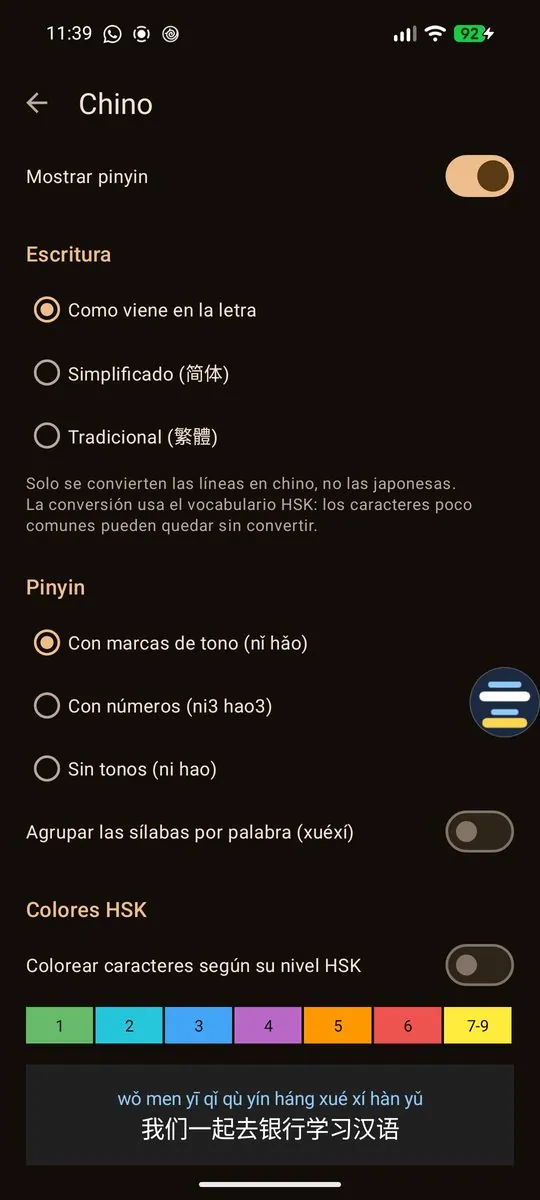
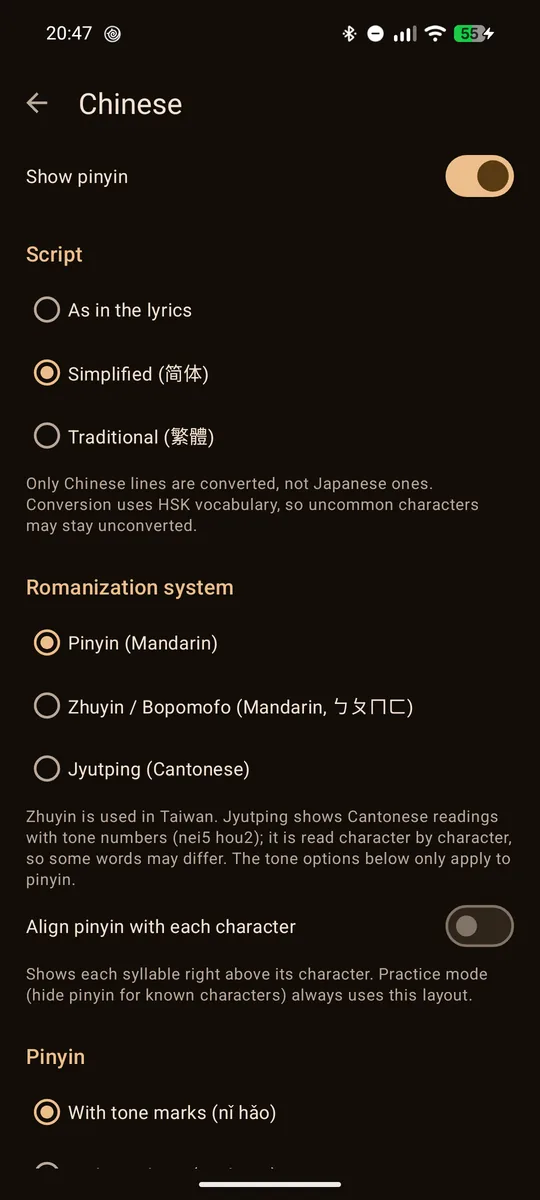
Landing: screenshot carousel with captions and new English screenshots; README.es.md uses the English-UI images

diff --git a/docs/ca/index.html b/docs/ca/index.html
@@ -31,6 +31,7 @@
 <script type="application/ld+json">{"@context": "https://schema.org", "@type": "WebSite", "name": "PinyinLyrics", "alternateName": ["Pinyin Lyrics"], "url": "https://pinyin-lyrics.dawei.es/"}</script>
 <script type="application/ld+json">{"@context": "https://schema.org", "@type": "SoftwareApplication", "name": "PinyinLyrics", "operatingSystem": "Android 8.0+", "applicationCategory": "EducationalApplication", "description": "App gratuïta d'Android amb lletres amb pinyin en una finestra flotant sobre la teva app de música. També romaji i romanització coreana. Sense anuncis.", "url": "https://pinyin-lyrics.dawei.es/ca/", "image": "https://pinyin-lyrics.dawei.es/assets/og-ca.jpg", "inLanguage": "ca", "offers": {"@type": "Offer", "price": "0", "priceCurrency": "EUR"}}</script>
 <script type="application/ld+json">{"@context": "https://schema.org", "@type": "FAQPage", "mainEntity": [{"@type": "Question", "name": "PinyinLyrics és gratuïta?", "acceptedAnswer": {"@type": "Answer", "text": "Sí. És gratuïta, sense anuncis, sense comptes i sense analítiques."}}, {"@type": "Question", "name": "Amb quines apps de música funciona?", "acceptedAnswer": {"@type": "Answer", "text": "Llegeix la cançó que sona des dels controls multimèdia que mostra Android, així que funciona amb la majoria d'apps de música i vídeo que publiquen títol i artista. Spotify, YouTube Music i Metrolist en són exemples habituals."}}, {"@type": "Question", "name": "Funciona amb la versió gratuïta de Spotify?", "acceptedAnswer": {"@type": "Answer", "text": "Sí. Detecta els anuncis i no en busca la lletra, així que mai intenta saltar-los ni esquivar-los. La lletra torna quan torna la cançó."}}, {"@type": "Question", "name": "Per què demana accés a les notificacions?", "acceptedAnswer": {"@type": "Answer", "text": "Android comparteix la informació del contingut que es reprodueix mitjançant el permís d'escolta de notificacions. PinyinLyrics l'utilitza només per saber el títol, l'artista i la posició de la cançó. No llegeix ni desa el contingut de les teves notificacions ni dels teus missatges."}}, {"@type": "Question", "name": "Per què no troba la lletra d'algunes cançons?", "acceptedAnswer": {"@type": "Answer", "text": "Les lletres sincronitzades vénen de LRCLIB, un servei obert de la comunitat, i si no en té cap l'app prova amb lyrics.ovh per obtenir text sense sincronitzar. No totes les cançons hi són. Pots cercar per títol o artista, triar una altra versió o enganxar la teva pròpia lletra, i l'app recorda la teva elecció per a aquesta cançó."}}, {"@type": "Question", "name": "Funciona sense connexió?", "acceptedAnswer": {"@type": "Answer", "text": "El pinyin, el romaji i la romanització es generen al teu mòbil. Les lletres necessiten connexió per descarregar-se, però les cançons que desis com a preferides s'obren sense."}}, {"@type": "Question", "name": "Puc consultar una paraula de la lletra?", "acceptedAnswer": {"@type": "Answer", "text": "Sí. Toca un caràcter xinès de la lletra i s'obre la seva fitxa: pinyin, significat de CC-CEDICT, nivell HSK i desglossament caràcter a caràcter. Pots copiar-la o obrir la teva app de diccionari."}}, {"@type": "Question", "name": "Hi ha versió per a iPhone?", "acceptedAnswer": {"@type": "Answer", "text": "De moment no. PinyinLyrics és per a Android 8.0 o superior."}}, {"@type": "Question", "name": "Quins idiomes admet?", "acceptedAnswer": {"@type": "Answer", "text": "Mostra pinyin per al xinès (simplificat i tradicional), romaji per al japonès i romanització revisada per al coreà. L'app està disponible en 11 idiomes."}}]}</script>
+<script src="../assets/showcase.js" defer></script>
 </head>
 <body>
 <header class="hero">
@@ -52,7 +53,7 @@
     <p class="cta"><a class="btn" href="https://github.com/DaWy/pinyin-lyrics/releases/latest/download/PinyinLyrics.apk" rel="nofollow">⬇ Descarregar l&#x27;APK</a> <a class="btn ghost" href="https://groups.google.com/g/pinyinlyrics-testing">Unir-me al grup de testers</a> <a class="btn ghost" href="https://github.com/DaWy/pinyin-lyrics">Veure a GitHub</a></p>
     <p class="dlnote">Última versió · Android 8.0+ · gratis · <a href="https://github.com/DaWy/pinyin-lyrics/releases/latest">Releases</a></p>
   </div>
-  <div class="shots"><div class="phone"><img src="../screenshots/home.webp" alt="Pantalla principal amb la targeta Ara sona, la barra de cerca i les pestanyes Recents i Preferides" width="540" height="1200"></div><div class="phone"><img src="../screenshots/floating.webp" alt="Finestra flotant amb la lletra i pinyin sobre un reproductor de música" width="540" height="1200" loading="lazy"></div><div class="phone"><img src="../screenshots/fullscreen.webp" alt="Lletra a pantalla completa amb pinyin, la línia actual ressaltada i controls del reproductor" width="540" height="1200" loading="lazy"></div><div class="phone"><img src="../screenshots/wordcard.webp" alt="Fitxa de la paraula 对不起 amb pinyin, significat, nivell HSK 1 i desglossament per caràcters" width="540" height="1200" loading="lazy"></div><div class="phone"><img src="../screenshots/mini.webp" alt="Mode mini amb la línia actual sobre el reproductor" width="540" height="1200" loading="lazy"></div><div class="phone"><img src="../screenshots/settings.webp" alt="Ajustos de xinès amb colors HSK" width="540" height="1200" loading="lazy"></div></div>
+  <section class="showcase" role="region" aria-roledescription="carousel" aria-label="Captures" data-prev="Pantalla anterior" data-next="Pantalla següent" data-go="Ves a la pantalla {n}: {name}"><div class="stage" tabindex="0"><div class="slide" role="group" aria-roledescription="slide" aria-label="1 / 8" data-t="Lletra a pantalla completa" data-s="Sincronitzada, amb pinyin sobre cada línia"><div class="phone"><img src="../screenshots/fullscreen.webp" alt="Lletra a pantalla completa de 姊姊妹妹站起來 de 陳奕 amb pinyin sobre cada línia, la línia actual ressaltada i controls del reproductor" width="540" height="1200" decoding="async"></div></div><div class="slide" role="group" aria-roledescription="slide" aria-label="2 / 8" data-t="Finestra flotant" data-s="Sobre qualsevol app de música"><div class="phone"><img src="../screenshots/floating.webp" alt="Finestra flotant amb la lletra i pinyin sobre el reproductor Metrolist" width="540" height="1200" decoding="async"></div></div><div class="slide" role="group" aria-roledescription="slide" aria-label="3 / 8" data-t="Fitxa de paraula" data-s="Toca un caràcter: significat i nivell HSK"><div class="phone"><img src="../screenshots/wordcard.webp" alt="Fitxa de la paraula 勇敢 (yǒng gǎn) amb el significat &quot;valent&quot;, nivell HSK 4 i desglossament per caràcters" width="540" height="1200" decoding="async"></div></div><div class="slide" role="group" aria-roledescription="slide" aria-label="4 / 8" data-t="Japonès" data-s="Romaji o hiragana"><div class="phone"><img src="../screenshots/japanese.webp" alt="Lletra en japonès de すずめ de RADWIMPS amb romaji sobre cada línia" width="540" height="1200" loading="lazy" decoding="async"></div></div><div class="slide" role="group" aria-roledescription="slide" aria-label="5 / 8" data-t="Coreà" data-s="Romanització revisada"><div class="phone"><img src="../screenshots/korean.webp" alt="Lletra en coreà de LA DI DA d&#x27;EVERGLOW amb la romanització sobre cada línia" width="540" height="1200" loading="lazy" decoding="async"></div></div><div class="slide" role="group" aria-roledescription="slide" aria-label="6 / 8" data-t="Mode mini" data-s="Només la línia actual"><div class="phone"><img src="../screenshots/mini.webp" alt="Mode mini amb només la línia actual i el seu pinyin sobre el reproductor" width="540" height="1200" loading="lazy" decoding="async"></div></div><div class="slide" role="group" aria-roledescription="slide" aria-label="7 / 8" data-t="Inici" data-s="El que sona, recents i preferides"><div class="phone"><img src="../screenshots/home.webp" alt="Pantalla principal amb la targeta Ara sona, la barra de cerca i les pestanyes Recents i Preferides" width="540" height="1200" loading="lazy" decoding="async"></div></div><div class="slide" role="group" aria-roledescription="slide" aria-label="8 / 8" data-t="A la teva manera" data-s="Simplificat o tradicional; pinyin, zhuyin o jyutping"><div class="phone"><img src="../screenshots/settings.webp" alt="Ajustos de xinès per triar escriptura simplificada o tradicional i el sistema de romanització: pinyin, zhuyin o jyutping" width="540" height="1200" loading="lazy" decoding="async"></div></div></div></section>
 </header>
 
 <main class="wrap">

diff --git a/docs/es/index.html b/docs/es/index.html
@@ -31,6 +31,7 @@
 <script type="application/ld+json">{"@context": "https://schema.org", "@type": "WebSite", "name": "PinyinLyrics", "alternateName": ["Pinyin Lyrics"], "url": "https://pinyin-lyrics.dawei.es/"}</script>
 <script type="application/ld+json">{"@context": "https://schema.org", "@type": "SoftwareApplication", "name": "PinyinLyrics", "operatingSystem": "Android 8.0+", "applicationCategory": "EducationalApplication", "description": "App gratuita de Android con letras con pinyin en una ventana flotante sobre tu app de música. También romaji y romanización coreana. Sin anuncios.", "url": "https://pinyin-lyrics.dawei.es/es/", "image": "https://pinyin-lyrics.dawei.es/assets/og-es.jpg", "inLanguage": "es", "offers": {"@type": "Offer", "price": "0", "priceCurrency": "EUR"}}</script>
 <script type="application/ld+json">{"@context": "https://schema.org", "@type": "FAQPage", "mainEntity": [{"@type": "Question", "name": "¿PinyinLyrics es gratis?", "acceptedAnswer": {"@type": "Answer", "text": "Sí. Es gratuita, sin anuncios, sin cuentas y sin analíticas."}}, {"@type": "Question", "name": "¿Con qué apps de música funciona?", "acceptedAnswer": {"@type": "Answer", "text": "Lee la canción que suena desde los controles multimedia que muestra Android, así que funciona con la mayoría de apps de música y vídeo que publican título y artista. Spotify, YouTube Music y Metrolist son ejemplos habituales."}}, {"@type": "Question", "name": "¿Funciona con la versión gratuita de Spotify?", "acceptedAnswer": {"@type": "Answer", "text": "Sí. Detecta los anuncios y no busca letra para ellos, así que nunca intenta saltarlos ni esquivarlos. La letra vuelve cuando vuelve la canción."}}, {"@type": "Question", "name": "¿Por qué pide acceso a notificaciones?", "acceptedAnswer": {"@type": "Answer", "text": "Android comparte la información del contenido que se reproduce a través del permiso de escucha de notificaciones. PinyinLyrics lo usa solo para saber el título, el artista y la posición de la canción. No lee ni guarda el contenido de tus notificaciones ni de tus mensajes."}}, {"@type": "Question", "name": "¿Por qué no encuentra la letra de algunas canciones?", "acceptedAnswer": {"@type": "Answer", "text": "Las letras sincronizadas vienen de LRCLIB, un servicio abierto de la comunidad, y si no tiene ninguna la app prueba con lyrics.ovh para obtener texto sin sincronizar. No todas las canciones están disponibles. Puedes buscar por título o artista, elegir otra versión o pegar tu propia letra, y la app recuerda tu elección para esa canción."}}, {"@type": "Question", "name": "¿Funciona sin conexión?", "acceptedAnswer": {"@type": "Answer", "text": "El pinyin, el romaji y la romanización se generan en tu móvil. Las letras necesitan conexión para descargarse, pero las canciones que guardes como favoritas se abren sin ella."}}, {"@type": "Question", "name": "¿Puedo consultar una palabra de la letra?", "acceptedAnswer": {"@type": "Answer", "text": "Sí. Toca un carácter chino de la letra y se abre su ficha: pinyin, significado de CC-CEDICT, nivel HSK y desglose carácter a carácter. Puedes copiarla o abrir tu app de diccionario."}}, {"@type": "Question", "name": "¿Hay versión para iPhone?", "acceptedAnswer": {"@type": "Answer", "text": "Por ahora no. PinyinLyrics es para Android 8.0 o superior."}}, {"@type": "Question", "name": "¿Qué idiomas admite?", "acceptedAnswer": {"@type": "Answer", "text": "Muestra pinyin para chino (simplificado y tradicional), romaji para japonés y romanización revisada para coreano. La app está disponible en 11 idiomas."}}]}</script>
+<script src="../assets/showcase.js" defer></script>
 </head>
 <body>
 <header class="hero">
@@ -52,7 +53,7 @@
     <p class="cta"><a class="btn" href="https://github.com/DaWy/pinyin-lyrics/releases/latest/download/PinyinLyrics.apk" rel="nofollow">⬇ Descargar el APK</a> <a class="btn ghost" href="https://groups.google.com/g/pinyinlyrics-testing">Unirme al grupo de testers</a> <a class="btn ghost" href="https://github.com/DaWy/pinyin-lyrics">Ver en GitHub</a></p>
     <p class="dlnote">Última versión · Android 8.0+ · gratis · <a href="https://github.com/DaWy/pinyin-lyrics/releases/latest">Releases</a></p>
   </div>
-  <div class="shots"><div class="phone"><img src="../screenshots/home.webp" alt="Pantalla principal con la tarjeta Ahora suena, la barra de búsqueda y las pestañas Recientes y Favoritas" width="540" height="1200"></div><div class="phone"><img src="../screenshots/floating.webp" alt="Ventana flotante con la letra y pinyin sobre un reproductor de música" width="540" height="1200" loading="lazy"></div><div class="phone"><img src="../screenshots/fullscreen.webp" alt="Letra a pantalla completa con pinyin, la línea actual resaltada y controles del reproductor" width="540" height="1200" loading="lazy"></div><div class="phone"><img src="../screenshots/wordcard.webp" alt="Ficha de la palabra 对不起 con pinyin, significado, nivel HSK 1 y desglose por caracteres" width="540" height="1200" loading="lazy"></div><div class="phone"><img src="../screenshots/mini.webp" alt="Modo mini con la línea actual sobre el reproductor" width="540" height="1200" loading="lazy"></div><div class="phone"><img src="../screenshots/settings.webp" alt="Ajustes de chino con colores HSK" width="540" height="1200" loading="lazy"></div></div>
+  <section class="showcase" role="region" aria-roledescription="carousel" aria-label="Capturas" data-prev="Pantalla anterior" data-next="Pantalla siguiente" data-go="Ir a la pantalla {n}: {name}"><div class="stage" tabindex="0"><div class="slide" role="group" aria-roledescription="slide" aria-label="1 / 8" data-t="Letra a pantalla completa" data-s="Sincronizada, con pinyin sobre cada línea"><div class="phone"><img src="../screenshots/fullscreen.webp" alt="Letra a pantalla completa de 姊姊妹妹站起來 de 陳奕 con pinyin sobre cada línea, la línea actual resaltada y controles del reproductor" width="540" height="1200" decoding="async"></div></div><div class="slide" role="group" aria-roledescription="slide" aria-label="2 / 8" data-t="Ventana flotante" data-s="Sobre cualquier app de música"><div class="phone"><img src="../screenshots/floating.webp" alt="Ventana flotante con la letra y pinyin sobre el reproductor Metrolist" width="540" height="1200" decoding="async"></div></div><div class="slide" role="group" aria-roledescription="slide" aria-label="3 / 8" data-t="Ficha de palabra" data-s="Toca un carácter: significado y nivel HSK"><div class="phone"><img src="../screenshots/wordcard.webp" alt="Ficha de la palabra 勇敢 (yǒng gǎn) con el significado &quot;valiente&quot;, nivel HSK 4 y desglose por caracteres" width="540" height="1200" decoding="async"></div></div><div class="slide" role="group" aria-roledescription="slide" aria-label="4 / 8" data-t="Japonés" data-s="Romaji o hiragana"><div class="phone"><img src="../screenshots/japanese.webp" alt="Letra en japonés de すずめ de RADWIMPS con romaji sobre cada línea" width="540" height="1200" loading="lazy" decoding="async"></div></div><div class="slide" role="group" aria-roledescription="slide" aria-label="5 / 8" data-t="Coreano" data-s="Romanización revisada"><div class="phone"><img src="../screenshots/korean.webp" alt="Letra en coreano de LA DI DA de EVERGLOW con la romanización sobre cada línea" width="540" height="1200" loading="lazy" decoding="async"></div></div><div class="slide" role="group" aria-roledescription="slide" aria-label="6 / 8" data-t="Modo mini" data-s="Solo la línea actual"><div class="phone"><img src="../screenshots/mini.webp" alt="Modo mini con solo la línea actual y su pinyin sobre el reproductor" width="540" height="1200" loading="lazy" decoding="async"></div></div><div class="slide" role="group" aria-roledescription="slide" aria-label="7 / 8" data-t="Inicio" data-s="Lo que suena, recientes y favoritas"><div class="phone"><img src="../screenshots/home.webp" alt="Pantalla principal con la tarjeta Ahora suena, la barra de búsqueda y las pestañas Recientes y Favoritas" width="540" height="1200" loading="lazy" decoding="async"></div></div><div class="slide" role="group" aria-roledescription="slide" aria-label="8 / 8" data-t="A tu manera" data-s="Simplificado o tradicional; pinyin, zhuyin o jyutping"><div class="phone"><img src="../screenshots/settings.webp" alt="Ajustes de chino para elegir escritura simplificada o tradicional y el sistema de romanización: pinyin, zhuyin o jyutping" width="540" height="1200" loading="lazy" decoding="async"></div></div></div></section>
 </header>
 
 <main class="wrap">

diff --git a/docs/index.html b/docs/index.html
@@ -31,6 +31,7 @@
 <script type="application/ld+json">{"@context": "https://schema.org", "@type": "WebSite", "name": "PinyinLyrics", "alternateName": ["Pinyin Lyrics"], "url": "https://pinyin-lyrics.dawei.es/"}</script>
 <script type="application/ld+json">{"@context": "https://schema.org", "@type": "SoftwareApplication", "name": "PinyinLyrics", "operatingSystem": "Android 8.0+", "applicationCategory": "EducationalApplication", "description": "Free Android app that shows song lyrics with pinyin in a floating window over your music app. Also romaji and Korean romanization. HSK colours. No ads.", "url": "https://pinyin-lyrics.dawei.es/", "image": "https://pinyin-lyrics.dawei.es/assets/og-en.jpg", "inLanguage": "en", "offers": {"@type": "Offer", "price": "0", "priceCurrency": "EUR"}}</script>
 <script type="application/ld+json">{"@context": "https://schema.org", "@type": "FAQPage", "mainEntity": [{"@type": "Question", "name": "Is PinyinLyrics free?", "acceptedAnswer": {"@type": "Answer", "text": "Yes. It's free, with no ads, no accounts and no analytics."}}, {"@type": "Question", "name": "Which music apps does it work with?", "acceptedAnswer": {"@type": "Answer", "text": "It reads the song that's playing from the media controls Android shows, so it works with most music and video apps that publish the title and artist. Spotify, YouTube Music and Metrolist are common examples."}}, {"@type": "Question", "name": "Does it work with the free version of Spotify?", "acceptedAnswer": {"@type": "Answer", "text": "Yes. It detects the ads and doesn't look up lyrics for them, so it never tries to skip or get around them. The lyrics come back when the song does."}}, {"@type": "Question", "name": "Why does it ask for notification access?", "acceptedAnswer": {"@type": "Answer", "text": "Android shares the currently playing media information through the notification listener permission. PinyinLyrics uses it only to know the title, artist and position of the song. It doesn't read or store the content of your notifications or messages."}}, {"@type": "Question", "name": "Why can't it find the lyrics for some songs?", "acceptedAnswer": {"@type": "Answer", "text": "Synced lyrics come from LRCLIB, an open community service, and when it has none the app tries lyrics.ovh for unsynced text. Not every song is available. You can search by title or artist, pick another version or paste your own lyrics, and the app remembers your choice for that song."}}, {"@type": "Question", "name": "Does it work offline?", "acceptedAnswer": {"@type": "Answer", "text": "Pinyin, romaji and romanization are generated on your phone. Lyrics need an internet connection to download, but songs you save as favourites can be opened without one."}}, {"@type": "Question", "name": "Can I look up a word from the lyrics?", "acceptedAnswer": {"@type": "Answer", "text": "Yes. Tap a Chinese character in the lyrics to open its word card: pinyin, meaning from CC-CEDICT, HSK level and a character-by-character breakdown. You can copy it or open your dictionary app."}}, {"@type": "Question", "name": "Is there an iPhone version?", "acceptedAnswer": {"@type": "Answer", "text": "Not for now. PinyinLyrics is for Android 8.0 and newer."}}, {"@type": "Question", "name": "Which languages does it support?", "acceptedAnswer": {"@type": "Answer", "text": "It shows pinyin for Chinese (simplified and traditional), romaji for Japanese and Revised Romanization for Korean. The app itself is available in 11 languages."}}]}</script>
+<script src="assets/showcase.js" defer></script>
 </head>
 <body>
 <header class="hero">
@@ -52,7 +53,7 @@
     <p class="cta"><a class="btn" href="https://github.com/DaWy/pinyin-lyrics/releases/latest/download/PinyinLyrics.apk" rel="nofollow">⬇ Download the APK</a> <a class="btn ghost" href="https://groups.google.com/g/pinyinlyrics-testing">Join the testers group</a> <a class="btn ghost" href="https://github.com/DaWy/pinyin-lyrics">View on GitHub</a></p>
     <p class="dlnote">Latest version · Android 8.0+ · free · <a href="https://github.com/DaWy/pinyin-lyrics/releases/latest">Releases</a></p>
   </div>
-  <div class="shots"><div class="phone"><img src="screenshots/home.webp" alt="Home screen with the Now playing card, search bar and Recents and Favourites tabs" width="540" height="1200"></div><div class="phone"><img src="screenshots/floating.webp" alt="Floating lyrics window with pinyin over a music player" width="540" height="1200" loading="lazy"></div><div class="phone"><img src="screenshots/fullscreen.webp" alt="Full-screen lyrics with pinyin, the current line highlighted and player controls" width="540" height="1200" loading="lazy"></div><div class="phone"><img src="screenshots/wordcard.webp" alt="Word card for 对不起 with pinyin, meaning, HSK 1 level and character breakdown" width="540" height="1200" loading="lazy"></div><div class="phone"><img src="screenshots/mini.webp" alt="Mini mode with the current line over the player" width="540" height="1200" loading="lazy"></div><div class="phone"><img src="screenshots/settings.webp" alt="Chinese settings with HSK colours" width="540" height="1200" loading="lazy"></div></div>
+  <section class="showcase" role="region" aria-roledescription="carousel" aria-label="Screenshots" data-prev="Previous screen" data-next="Next screen" data-go="Go to screen {n}: {name}"><div class="stage" tabindex="0"><div class="slide" role="group" aria-roledescription="slide" aria-label="1 / 8" data-t="Full-screen lyrics" data-s="Synced, with pinyin above every line"><div class="phone"><img src="screenshots/fullscreen.webp" alt="Full-screen lyrics for 姊姊妹妹站起來 by 陳奕 with pinyin above each line, the current line highlighted and player controls" width="540" height="1200" decoding="async"></div></div><div class="slide" role="group" aria-roledescription="slide" aria-label="2 / 8" data-t="Floating window" data-s="Over any music app"><div class="phone"><img src="screenshots/floating.webp" alt="Floating lyrics window with pinyin over the Metrolist music player" width="540" height="1200" decoding="async"></div></div><div class="slide" role="group" aria-roledescription="slide" aria-label="3 / 8" data-t="Word cards" data-s="Tap a character for its meaning and HSK level"><div class="phone"><img src="screenshots/wordcard.webp" alt="Word card for 勇敢 (yǒng gǎn) with the meaning &quot;brave; courageous&quot;, HSK 4 level and a character-by-character breakdown" width="540" height="1200" decoding="async"></div></div><div class="slide" role="group" aria-roledescription="slide" aria-label="4 / 8" data-t="Japanese" data-s="Romaji or hiragana"><div class="phone"><img src="screenshots/japanese.webp" alt="Japanese lyrics of すずめ by RADWIMPS with romaji above each line" width="540" height="1200" loading="lazy" decoding="async"></div></div><div class="slide" role="group" aria-roledescription="slide" aria-label="5 / 8" data-t="Korean" data-s="Revised Romanization"><div class="phone"><img src="screenshots/korean.webp" alt="Korean lyrics of LA DI DA by EVERGLOW with the romanization above each line" width="540" height="1200" loading="lazy" decoding="async"></div></div><div class="slide" role="group" aria-roledescription="slide" aria-label="6 / 8" data-t="Mini mode" data-s="Just the current line"><div class="phone"><img src="screenshots/mini.webp" alt="Mini mode showing only the current line with pinyin over the music player" width="540" height="1200" loading="lazy" decoding="async"></div></div><div class="slide" role="group" aria-roledescription="slide" aria-label="7 / 8" data-t="Home" data-s="What&#x27;s playing, recents and favourites"><div class="phone"><img src="screenshots/home.webp" alt="Home screen with the Now playing card, search bar and Recent and Favourites tabs" width="540" height="1200" loading="lazy" decoding="async"></div></div><div class="slide" role="group" aria-roledescription="slide" aria-label="8 / 8" data-t="Your way" data-s="Simplified or traditional; pinyin, zhuyin or jyutping"><div class="phone"><img src="screenshots/settings.webp" alt="Chinese settings to choose simplified or traditional script and the pinyin, zhuyin or jyutping romanization system" width="540" height="1200" loading="lazy" decoding="async"></div></div></div></section>
 </header>
 
 <main class="wrap">

diff --git a/docs/assets/style.css b/docs/assets/style.css
@@ -31,9 +31,45 @@ h1{font-size:clamp(2.3rem,7vw,3.6rem);font-weight:700;margin:6px 0 8px;letter-sp
 .dlnote a{color:var(--muted)}
 .btn.ghost{background:transparent;color:var(--accent);border:1px solid var(--outline)}
 .btn.ghost:hover{background:var(--surface2);color:var(--accent);border-color:var(--accent-strong)}
-.shots{display:flex;gap:20px;justify-content:center;justify-content:safe center;align-items:flex-start;padding:44px 20px 16px;overflow-x:auto;scroll-snap-type:x mandatory;scroll-padding:0 20px;-webkit-overflow-scrolling:touch}
-.phone{flex:0 0 auto;width:min(210px,62vw);scroll-snap-align:center;border-radius:28px;padding:5px;background:var(--surface);border:1px solid var(--outline);box-shadow:0 18px 40px #000a}
-.phone img{display:block;width:100%;border-radius:23px}
+.showcase{--pw:260px;--ph:calc((var(--pw) - 12px)*2.2222 + 12px)}
+.stage{display:flex;gap:20px;justify-content:center;justify-content:safe center;align-items:flex-start;padding:44px 20px 16px;overflow-x:auto;scroll-snap-type:x mandatory;scroll-padding:0 20px;-webkit-overflow-scrolling:touch}
+.slide{flex:0 0 auto;width:min(210px,62vw);scroll-snap-align:center}
+.phone{border-radius:28px;padding:5px;background:var(--surface);border:1px solid var(--outline);box-shadow:0 18px 40px #000a}
+.phone img{display:block;width:100%;border-radius:23px;-webkit-user-drag:none;user-select:none}
+.sc-ui{display:none}
+.is-js{--pw:min(260px,66vw);--dx:calc(var(--pw)*.76)}
+.is-js .stage{display:block;position:relative;overflow:hidden;height:calc(var(--ph) + 64px);padding:0;perspective:1500px;scroll-snap-type:none;touch-action:pan-y;user-select:none;-webkit-user-select:none;outline-offset:-3px}
+.is-js .stage::before{content:"";position:absolute;left:50%;top:50%;width:min(720px,110%);height:72%;transform:translate(-50%,-50%);background:radial-gradient(closest-side,#f2c08c4d,#d85a301f 55%,transparent);filter:blur(34px);pointer-events:none}
+.is-js .slide{position:absolute;left:50%;top:32px;width:var(--pw);margin-left:calc(var(--pw)/-2);cursor:pointer;opacity:0;visibility:hidden;pointer-events:none;transform:scale(.5);transition:transform .6s cubic-bezier(.2,.7,.2,1),opacity .6s cubic-bezier(.2,.7,.2,1),filter .6s cubic-bezier(.2,.7,.2,1),visibility 0s .6s}
+.is-js .slide[data-pos]{visibility:visible;pointer-events:auto;transition-delay:0s}
+.is-js .slide[data-pos="0"]{opacity:1;z-index:3;cursor:default;transform:none}
+.is-js .slide[data-pos="1"],.is-js .slide[data-pos="-1"]{opacity:.5;z-index:2;filter:blur(1.5px) brightness(.72)}
+.is-js .slide[data-pos="1"]{transform:translateX(var(--dx)) scale(.8) rotateY(-18deg)}
+.is-js .slide[data-pos="-1"]{transform:translateX(calc(var(--dx)*-1)) scale(.8) rotateY(18deg)}
+.is-js .slide[data-pos="2"],.is-js .slide[data-pos="-2"]{opacity:.18;z-index:1;filter:blur(2.5px) brightness(.6)}
+.is-js .slide[data-pos="2"]{transform:translateX(calc(var(--dx)*1.62)) scale(.62) rotateY(-24deg)}
+.is-js .slide[data-pos="-2"]{transform:translateX(calc(var(--dx)*-1.62)) scale(.62) rotateY(24deg)}
+.is-js .phone{box-shadow:0 22px 50px #000c,0 0 0 1px #0006}
+.sc-ui{display:block;text-align:center;padding:0 20px}
+.sc-cap{min-height:3.7em;margin:6px auto 0;max-width:520px}
+.sc-cap b{display:block;font-size:1.1rem;letter-spacing:-.01em;color:var(--text)}
+.sc-cap span{display:block;color:var(--muted);font-size:.95rem}
+.sc-cap.in{animation:scfade .5s cubic-bezier(.2,.7,.2,1)}
+@keyframes scfade{from{opacity:0;transform:translateY(6px)}to{opacity:1;transform:none}}
+.sc-nav{display:flex;justify-content:center;align-items:center;gap:10px;margin-top:6px}
+.sc-arrow{display:flex;align-items:center;justify-content:center;width:40px;height:40px;padding:0;border-radius:50%;border:1px solid var(--outline);background:var(--surface);color:var(--accent);cursor:pointer;transition:background .15s,border-color .15s}
+.sc-arrow:hover{background:var(--surface2);border-color:var(--accent-strong)}
+.sc-dots{display:flex;align-items:center}
+.sc-dot{padding:14px 3px;border:0;background:none;cursor:pointer}
+.sc-dot i{display:block;position:relative;width:8px;height:8px;border-radius:999px;background:var(--outline);overflow:hidden;transition:width .45s cubic-bezier(.2,.7,.2,1),background .3s}
+.sc-dot:hover i{background:var(--muted)}
+.sc-dot.on i{width:38px;background:var(--surface2)}
+.sc-dot.on i::after{content:"";position:absolute;inset:0;background:var(--accent);transform:scaleX(0);transform-origin:left}
+.sc-dot.on.run i::after{animation:scfill var(--dur,4s) linear forwards}
+.is-paused .sc-dot.on i::after{animation-play-state:paused}
+@keyframes scfill{to{transform:scaleX(1)}}
+@media (max-width:700px){.is-js{--dx:calc(var(--pw)*.72)}.is-js .slide[data-pos="2"],.is-js .slide[data-pos="-2"]{opacity:0;visibility:hidden}}
+@media (prefers-reduced-motion:reduce){.is-js .slide[data-pos]:not([data-pos="0"]){opacity:0;transform:none;pointer-events:none}.is-js .slide{transition:opacity .3s!important}.sc-dot.on i::after{animation:none!important;transform:scaleX(1)}.sc-cap.in{animation:none}}
 h2.sec{font-size:clamp(1.5rem,4vw,1.9rem);font-weight:700;letter-spacing:-.025em;margin:56px 0 8px}
 .grid{display:grid;grid-template-columns:repeat(auto-fit,minmax(260px,1fr));gap:16px;padding:12px 0}
 .card{background:var(--surface);border:1px solid var(--outline);border-radius:24px;padding:22px}
@@ -68,5 +104,5 @@ footer a{margin:0 10px}
 .cta-box{background:var(--surface);border:1px solid var(--outline);border-radius:24px;padding:22px 26px;margin:36px 0}
 .cta-box h2{margin-top:0}
 :focus-visible{outline:2px solid var(--accent);outline-offset:3px}
-@media (max-width:560px){.top{flex-direction:column;align-items:flex-start}.shots{justify-content:flex-start}}
+@media (max-width:560px){.top{flex-direction:column;align-items:flex-start}.stage{justify-content:flex-start}}
 @media (prefers-reduced-motion:reduce){html{scroll-behavior:auto}*{transition:none!important}}

diff --git a/docs/assets/showcase.js b/docs/assets/showcase.js
@@ -1,0 +1,113 @@
+(function () {
+  var root = document.querySelector('.showcase');
+  if (!root) return;
+  var stage = root.querySelector('.stage');
+  var slides = [].slice.call(root.querySelectorAll('.slide'));
+  var n = slides.length;
+  if (!stage || n < 2) return;
+  var INTERVAL = 4000, cur = 0, timer = null, hover = false, focus = false;
+  var reduce = window.matchMedia ? matchMedia('(prefers-reduced-motion: reduce)') : { matches: false };
+
+  function el(tag, cls, attrs) {
+    var x = document.createElement(tag);
+    if (cls) x.className = cls;
+    for (var k in attrs || {}) x.setAttribute(k, attrs[k]);
+    return x;
+  }
+  var chevron = function (d) {
+    return '<svg width="18" height="18" viewBox="0 0 24 24" fill="none" stroke="currentColor" stroke-width="2.5" stroke-linecap="round" stroke-linejoin="round" aria-hidden="true"><path d="' + d + '"/></svg>';
+  };
+  var ui = el('div', 'sc-ui');
+  var cap = el('div', 'sc-cap', { 'aria-live': 'polite', 'aria-atomic': 'true' });
+  var nav = el('div', 'sc-nav');
+  var prev = el('button', 'sc-arrow', { type: 'button', 'aria-label': root.dataset.prev || 'Previous' });
+  var next = el('button', 'sc-arrow', { type: 'button', 'aria-label': root.dataset.next || 'Next' });
+  prev.innerHTML = chevron('M15 5l-7 7 7 7');
+  next.innerHTML = chevron('M9 5l7 7-7 7');
+  var dotsBox = el('div', 'sc-dots');
+  var dots = slides.map(function (s, i) {
+    var label = (root.dataset.go || '{n}: {name}').replace('{n}', i + 1).replace('{name}', s.dataset.t || '');
+    var d = el('button', 'sc-dot', { type: 'button', 'aria-label': label });
+    d.appendChild(el('i'));
+    d.addEventListener('click', function () { go(i); });
+    dotsBox.appendChild(d);
+    return d;
+  });
+  nav.appendChild(prev); nav.appendChild(dotsBox); nav.appendChild(next);
+  ui.appendChild(cap); ui.appendChild(nav);
+  root.appendChild(ui);
+  root.style.setProperty('--dur', INTERVAL + 'ms');
+
+  function render(animate) {
+    slides.forEach(function (s, i) {
+      var p = ((i - cur + n + Math.floor(n / 2)) % n) - Math.floor(n / 2);
+      if (Math.abs(p) <= 2) s.dataset.pos = p; else s.removeAttribute('data-pos');
+      s.setAttribute('aria-hidden', p === 0 ? 'false' : 'true');
+    });
+    dots.forEach(function (d, i) {
+      d.classList.toggle('on', i === cur);
+      if (i === cur) d.setAttribute('aria-current', 'true'); else d.removeAttribute('aria-current');
+    });
+    cap.innerHTML = '';
+    var b = el('b'), sp = el('span');
+    b.textContent = slides[cur].dataset.t || '';
+    sp.textContent = slides[cur].dataset.s || '';
+    cap.appendChild(b); cap.appendChild(sp);
+    if (animate) { cap.classList.remove('in'); void cap.offsetWidth; cap.classList.add('in'); }
+  }
+  function go(i, auto) {
+    cur = (i + n) % n;
+    render(true);
+    arm();
+  }
+  // (re)arranca el temporizador y la barra de progreso del punto activo
+  function arm() {
+    clearTimeout(timer);
+    dots.forEach(function (d) { d.classList.remove('run'); });
+    if (reduce.matches) return;
+    void root.offsetWidth;
+    dots[cur].classList.add('run');
+    if (!paused()) timer = setTimeout(function () { go(cur + 1); }, INTERVAL);
+  }
+  function paused() { return hover || focus || document.hidden || reduce.matches; }
+  function sync() {
+    root.classList.toggle('is-paused', paused());
+    if (paused()) clearTimeout(timer); else arm();
+  }
+
+  prev.addEventListener('click', function () { go(cur - 1); });
+  next.addEventListener('click', function () { go(cur + 1); });
+  slides.forEach(function (s, i) {
+    s.addEventListener('click', function () { if (!moved && i !== cur) go(i); });
+  });
+  root.addEventListener('keydown', function (ev) {
+    if (ev.key === 'ArrowLeft') { go(cur - 1); ev.preventDefault(); }
+    else if (ev.key === 'ArrowRight') { go(cur + 1); ev.preventDefault(); }
+  });
+
+  // swipe con pointer events
+  var x0 = null, moved = false;
+  stage.addEventListener('pointerdown', function (ev) { x0 = ev.clientX; moved = false; });
+  stage.addEventListener('pointerup', function (ev) {
+    if (x0 === null) return;
+    var dx = ev.clientX - x0; x0 = null;
+    if (Math.abs(dx) > 40) { moved = true; go(dx < 0 ? cur + 1 : cur - 1); setTimeout(function () { moved = false; }, 0); }
+  });
+  stage.addEventListener('pointercancel', function () { x0 = null; });
+
+  // pausa: ratón encima (no táctil), foco de teclado dentro, pestaña oculta
+  root.addEventListener('pointerenter', function (ev) { if (ev.pointerType === 'mouse') { hover = true; sync(); } });
+  root.addEventListener('pointerleave', function () { hover = false; sync(); });
+  root.addEventListener('focusin', function (ev) {
+    try { focus = ev.target.matches(':focus-visible'); } catch (_) { focus = false; }
+    sync();
+  });
+  root.addEventListener('focusout', function () { focus = false; sync(); });
+  document.addEventListener('visibilitychange', sync);
+  if (reduce.addEventListener) reduce.addEventListener('change', sync);
+
+  root.classList.add('is-js');
+  render(false);
+  sync();
+  arm();
+})();

diff --git a/README.es.md b/README.es.md
@@ -27,12 +27,12 @@
 </p>
 
 <p align="center">
-  <img src="screenshots/home.jpg" width="24%" alt="Pantalla principal con la tarjeta Ahora suena, la barra de búsqueda y las pestañas Recientes y Favoritas">
-  <img src="screenshots/floating.jpg" width="24%" alt="Ventana flotante con la letra y pinyin sobre un reproductor de música">
-  <img src="screenshots/fullscreen.jpg" width="24%" alt="Letra a pantalla completa con pinyin y controles del reproductor">
-  <img src="screenshots/wordcard.jpg" width="24%" alt="Ficha de la palabra 对不起 con pinyin, significado, nivel HSK y desglose por caracteres">
+  <img src="screenshots/en/home.jpg" width="24%" alt="Pantalla principal con la tarjeta Ahora suena, la barra de búsqueda y las pestañas Recientes y Favoritas">
+  <img src="screenshots/en/floating.jpg" width="24%" alt="Ventana flotante con la letra y pinyin sobre un reproductor de música">
+  <img src="screenshots/en/fullscreen.jpg" width="24%" alt="Letra a pantalla completa con pinyin y controles del reproductor">
+  <img src="screenshots/en/wordcard.jpg" width="24%" alt="Ficha de la palabra 勇敢 con pinyin, significado, nivel HSK y desglose por caracteres">
 </p>
-<p align="center"><sub>Pantalla principal · Ventana flotante · Letra a pantalla completa · Ficha de palabra</sub></p>
+<p align="center"><sub>Pantalla principal · Ventana flotante · Letra a pantalla completa · Ficha de palabra <i>(interfaz en inglés)</i></sub></p>
 
 **PinyinLyrics** es una app gratuita para Android que detecta la canción que suena en tu móvil (YouTube Music,
 Spotify, etc.; también la versión gratuita de Spotify), busca su letra y la muestra **sobre cualquier app**, con
@@ -59,7 +59,7 @@ consultarla, colorea la letra por nivel HSK u oculta el pinyin que ya sabes.
 <details open>
 <summary><b>🎧 La letra sigue a tu música</b></summary>
 
-<img src="screenshots/features/feat-sync.png" width="260" align="right" alt="Letra sincronizada a pantalla completa: la línea actual resaltada y los controles del reproductor debajo">
+<img src="screenshots/en/features/feat-sync.png" width="260" align="right" alt="Letra sincronizada a pantalla completa: la línea actual resaltada y los controles del reproductor debajo">
 
 - Detección automática de la canción que suena en **Spotify** (también la versión gratuita: detecta los anuncios y no
   busca letra para ellos), **YouTube Music**, **Metrolist** y más.
@@ -78,7 +78,7 @@ consultarla, colorea la letra por nivel HSK u oculta el pinyin que ya sabes.
 <details open>
 <summary><b>🈶 Chino, japonés y coreano</b></summary>
 
-<img src="screenshots/features/feat-languages.png" width="220" align="right" alt="Ajustes de chino: escritura (como viene en la letra, simplificado o tradicional) y estilo del pinyin (marcas de tono, números o sin tonos)">
+<img src="screenshots/en/features/feat-languages.png" width="220" align="right" alt="Ajustes de chino: escritura (como viene en la letra, simplificado o tradicional) y sistema de romanización (pinyin, zhuyin o jyutping)">
 
 - **Chino:** pinyin por palabras (lecturas correctas en caracteres con varias pronunciaciones), con marcas de tono,
   números o sin tonos; escritura simplificada o tradicional; **zhuyin** (bopomofo) y **jyutping** (cantonés).
@@ -87,13 +87,21 @@ consultarla, colorea la letra por nivel HSK u oculta el pinyin que ya sabes.
 - El idioma se detecta por canción.
 
 <br clear="right">
+<br>
+
+<p align="center">
+  <img src="screenshots/en/features/feat-japanese.png" width="280" alt="Letra en japonés con romaji Hepburn sobre cada línea; la línea actual resaltada">
+  &nbsp;
+  <img src="screenshots/en/features/feat-korean.png" width="280" alt="Letra en coreano con romanización revisada sobre cada línea; la línea actual resaltada">
+</p>
+<p align="center"><sub>Japonés (romaji) · Coreano (romanización revisada)</sub></p>
 
 </details>
 
 <details open>
 <summary><b>📖 Aprende mientras escuchas</b></summary>
 
-<img src="screenshots/features/feat-wordcard.png" width="260" align="right" alt="Ficha de la palabra 对不起: pinyin, significado, HSK 1 y el significado de cada carácter">
+<img src="screenshots/en/features/feat-wordcard.png" width="260" align="right" alt="Ficha de la palabra 勇敢: pinyin, significado, HSK 4 y el significado de cada carácter">
 
 - **Pinyin alineado:** se dibuja sobre cada carácter, no en una línea aparte.
 - **Ficha de palabra:** toca un carácter chino en la letra y verás la palabra con pinyin, significado (CC-CEDICT),
@@ -119,9 +127,9 @@ consultarla, colorea la letra por nivel HSK u oculta el pinyin que ya sabes.
 - **Pantalla principal:** tarjeta "Ahora suena" con la carátula difuminada y la línea actual, más Recientes y Favoritas.
 
 <p align="center">
-  <img src="screenshots/features/feat-floating.png" width="300" alt="Ventana flotante con letra sincronizada, pinyin y controles de reproducción sobre un reproductor de música">
+  <img src="screenshots/en/features/feat-floating.png" width="300" alt="Ventana flotante con letra sincronizada, pinyin y controles de reproducción sobre un reproductor de música">
   &nbsp;
-  <img src="screenshots/features/feat-mini.png" width="300" alt="Modo mini: la línea actual y la siguiente sobre un fondo casi transparente">
+  <img src="screenshots/en/features/feat-mini.png" width="300" alt="Modo mini: la línea actual y la siguiente sobre un fondo casi transparente">
 </p>
 <p align="center"><sub>Ventana flotante · Modo mini</sub></p>
 
@@ -132,7 +140,7 @@ consultarla, colorea la letra por nivel HSK u oculta el pinyin que ya sabes.
 <details open>
 <summary><b>🛠 Búsqueda, favoritas y correcciones</b></summary>
 
-<img src="screenshots/features/feat-library.png" width="260" align="right" alt="Pestañas Recientes y Favoritas de la pantalla principal">
+<img src="screenshots/en/features/feat-library.png" width="260" align="right" alt="Pestañas Recientes y Favoritas de la pantalla principal">
 
 - **Buscador de letras** por título o artista, con scroll infinito.
 - **Favoritas** (guardadas en tu móvil, con copia de seguridad y restauración) y **canciones recientes**.
